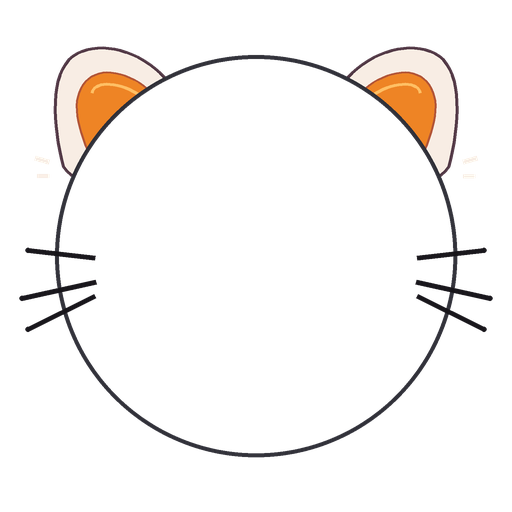
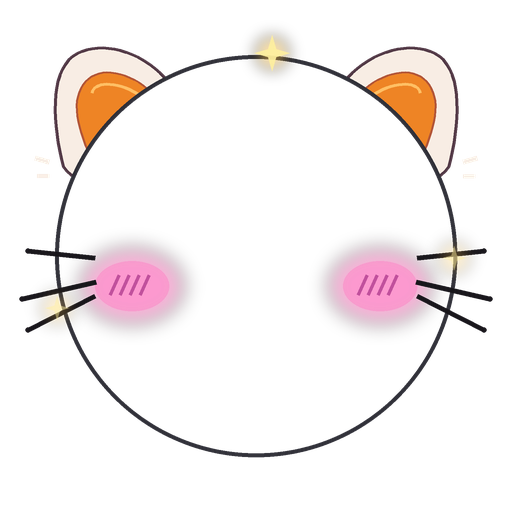
fix : 고양이 프로필 효과에 볼터치와 반짝임 추가

diff --git a/scripts/generate-halloween-cat-frame.py b/scripts/generate-halloween-cat-frame.py
@@ -9,7 +9,7 @@ from __future__ import annotations
 import math
 from pathlib import Path
 
-from PIL import Image, ImageChops, ImageDraw
+from PIL import Image, ImageChops, ImageDraw, ImageFilter
 
 
 ASSETS = Path(__file__).resolve().parents[1] / "src/shared/ui/ProfileAvatar/assets"
@@ -20,6 +20,11 @@ CANVAS_SIZE = 512
 DRAW_SCALE = 3
 
 Point = tuple[float, float]
+
+
+def smoothstep(value: float) -> float:
+    value = max(0.0, min(1.0, value))
+    return value * value * (3 - 2 * value)
 
 
 def cubic(start: Point, control_a: Point, control_b: Point, end: Point) -> list[Point]:
@@ -119,16 +124,111 @@ def draw_whiskers(layer: Image.Image, sway: float) -> None:
             draw.ellipse((x - radius, y - radius, x + radius, y + radius), fill="#17151A")
 
 
+def draw_blush(layer: Image.Image, progress: float) -> None:
+    # The reference alternates between visible cheeks and a bare avatar.
+    opacity = smoothstep((math.cos(2 * math.pi * (progress - 0.10)) + 0.10) / 0.80)
+    if opacity <= 0:
+        return
+
+    size = layer.size
+    glow = Image.new("RGBA", size)
+    glow_draw = ImageDraw.Draw(glow)
+    details = Image.new("RGBA", size)
+    detail_draw = ImageDraw.Draw(details)
+
+    for center_x in (132, 380):
+        center_y = 286
+        glow_draw.ellipse(
+            (
+                round((center_x - 52) * DRAW_SCALE),
+                round((center_y - 38) * DRAW_SCALE),
+                round((center_x + 52) * DRAW_SCALE),
+                round((center_y + 38) * DRAW_SCALE),
+            ),
+            fill=(244, 82, 169, round(115 * opacity)),
+        )
+        detail_draw.ellipse(
+            (
+                round((center_x - 37) * DRAW_SCALE),
+                round((center_y - 25) * DRAW_SCALE),
+                round((center_x + 37) * DRAW_SCALE),
+                round((center_y + 25) * DRAW_SCALE),
+            ),
+            fill=(255, 114, 190, round(95 * opacity)),
+        )
+        for offset in (-17, -7, 3, 13):
+            detail_draw.line(
+                scale_points(
+                    [
+                        (center_x + offset - 5, center_y + 9),
+                        (center_x + offset + 4, center_y - 11),
+                    ]
+                ),
+                fill=(172, 46, 135, round(185 * opacity)),
+                width=3 * DRAW_SCALE,
+            )
+
+    softened = glow.filter(ImageFilter.GaussianBlur(9 * DRAW_SCALE))
+    layer.alpha_composite(softened)
+    layer.alpha_composite(details)
+
+
+def draw_sparkles(layer: Image.Image, progress: float) -> None:
+    glow = Image.new("RGBA", layer.size)
+    glow_draw = ImageDraw.Draw(glow)
+    sharp = Image.new("RGBA", layer.size)
+    sharp_draw = ImageDraw.Draw(sharp)
+    anchors = (
+        (272, 53, 0.00),
+        (454, 258, 0.25),
+        (256, 459, 0.50),
+        (57, 308, 0.75),
+    )
+    for x, y, phase in anchors:
+        pulse = (1 + math.cos(2 * math.pi * (progress - phase))) / 2
+        if pulse < 0.08:
+            continue
+        radius = 6 + 12 * pulse
+        xh, yh = round(x * DRAW_SCALE), round(y * DRAW_SCALE)
+        glow_draw.ellipse(
+            (
+                xh - 17 * DRAW_SCALE,
+                yh - 17 * DRAW_SCALE,
+                xh + 17 * DRAW_SCALE,
+                yh + 17 * DRAW_SCALE,
+            ),
+            fill=(255, 197, 74, round(130 * pulse)),
+        )
+        sharp_draw.polygon(
+            scale_points(
+                [
+                    (x, y - radius),
+                    (x + radius * 0.22, y - radius * 0.22),
+                    (x + radius, y),
+                    (x + radius * 0.22, y + radius * 0.22),
+                    (x, y + radius),
+                    (x - radius * 0.22, y + radius * 0.22),
+                    (x - radius, y),
+                    (x - radius * 0.22, y - radius * 0.22),
+                ]
+            ),
+            fill=(255, 240, 159, round(230 * pulse)),
+        )
+
+    layer.alpha_composite(glow.filter(ImageFilter.GaussianBlur(7 * DRAW_SCALE)))
+    layer.alpha_composite(sharp)
+
+
 def render_frame(index: int) -> Image.Image:
     progress = index / FRAME_COUNT
     perk = (1 - math.cos(2 * math.pi * progress)) / 2
-    whisker_sway = 5 * math.sin(2 * math.pi * progress - 0.35)
+    whisker_sway = 2.5 * math.sin(2 * math.pi * progress - 0.35)
     canvas_size = CANVAS_SIZE * DRAW_SCALE
     layer = Image.new("RGBA", (canvas_size, canvas_size))
 
-    # Rotating the same silhouettes keeps the reference ear shape in every frame.
-    draw_ear(layer, angle=18 * perk, right=False)
-    draw_ear(layer, angle=18 * perk, right=True)
+    # The reference ears mostly hold their shape while the face effects animate.
+    draw_ear(layer, angle=8 * perk, right=False)
+    draw_ear(layer, angle=8 * perk, right=True)
 
     # Ear bases sit behind the transparent photo opening, as in the reference.
     opening = Image.new("L", (canvas_size, canvas_size))
@@ -158,7 +258,9 @@ def render_frame(index: int) -> Image.Image:
             fill="#F8EDE4",
             width=4 * DRAW_SCALE,
         )
+    draw_blush(layer, progress)
     draw_whiskers(layer, whisker_sway)
+    draw_sparkles(layer, progress)
     return layer.resize((CANVAS_SIZE, CANVAS_SIZE), Image.Resampling.LANCZOS)
 
 
@@ -206,7 +308,7 @@ def main() -> None:
         blend=0,
         compress_level=9,
     )
-    frames[7].resize((256, 256), Image.Resampling.LANCZOS).save(
+    frames[0].resize((256, 256), Image.Resampling.LANCZOS).save(
         ASSETS / "halloween-cat-thumbnail.webp", format="WEBP", quality=88
     )
     export_preview(frames)
